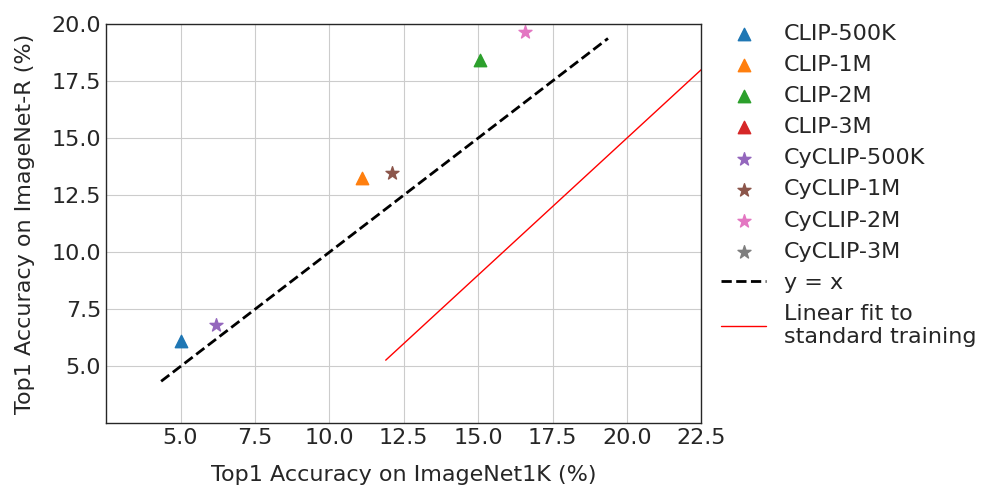
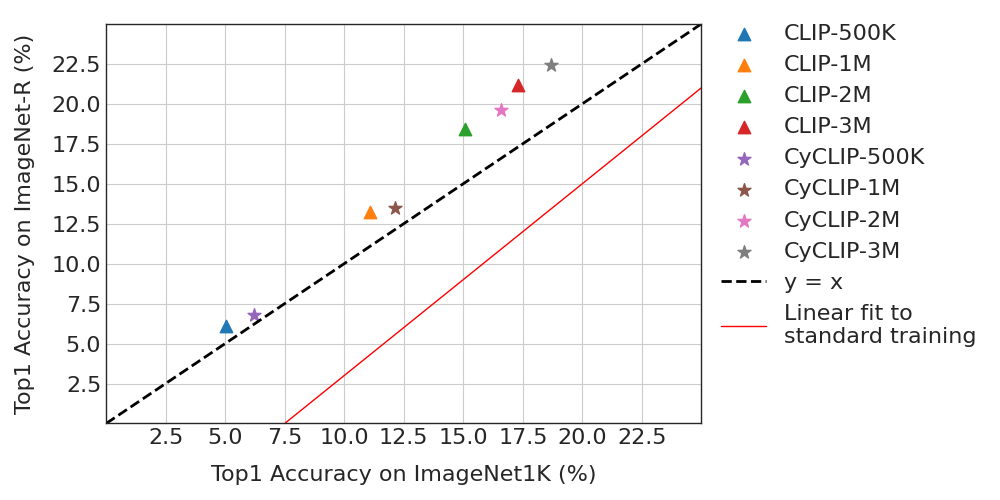
minor changes

diff --git a/utils/fine_coarse_plot.py b/utils/fine_coarse_plot.py
@@ -1,5 +1,4 @@
 import os
-from cv2 import rotate
 import numpy as np
 import seaborn as sns
 import matplotlib.pyplot as plt
@@ -20,87 +19,71 @@ plt.rcParams.update(params)
 plt.style.use("seaborn-whitegrid")
 sns.set_style("white")
 
-k = 1
-
 data_fine_top_1 = {
     "Dataset": ["CIFAR-100", "ImageNet1K", "ImageNetV2", "ImageNetSketch", "ImageNet-A", "ImageNet-R"],
     "CLIP": [43.55,	34.18, 31.10, 25.11, 40.09, 54.49],
-    "CyCLIP": [47.11, 35.46, 33.01, 26.42, 41.25, 55.36],    
-    "C-CyCLIP": [49.19, 35.12, 32.31, 26.37, 42.56, 55.59],
-    "I-CyCLIP": [47.71, 34.92, 32.21, 24.89, 39.60, 53.99]
+    "CyCLIP": [47.11, 35.46, 33.01, 26.42, 41.25, 55.36]
 }
 
 data_coarse_top_1 = {
     "Dataset": ["CIFAR-100", "ImageNet1K", "ImageNetV2", "ImageNetSketch", "ImageNet-A", "ImageNet-R"],
     "CLIP": [34.82, 52.11, 47.24, 37.03, 14.59, 40.51],
-    "CyCLIP": [40.37, 56.79, 52.15, 41.57, 16.48, 44.43],    
-    "C-CyCLIP": [43.06, 56.08, 50.89, 43.02, 16.40, 45.41],
-    "I-CyCLIP": [39.30, 55.78, 51.48, 39.18, 15.63, 41.63]
+    "CyCLIP": [40.37, 56.79, 52.15, 41.57, 16.48, 44.43]
 }
 
 data_fine_top_2 = {
     "Dataset": ["CIFAR-100", "ImageNet1K", "ImageNetV2", "ImageNetSketch", "ImageNet-A", "ImageNet-R"],
     "CLIP": [67.65, 46.53, 43.85, 36.69, 57.93, 71.55],
-    "CyCLIP": [68.67, 48.22, 45.37, 38.34, 57.89, 71.96],    
-    "C-CyCLIP": [71.02, 47.95, 45.02, 37.67, 59.41, 72.06],
-    "I-CyCLIP": [69.30, 47.42, 45.00, 37.24, 56.67, 70.99]
+    "CyCLIP": [68.67, 48.22, 45.37, 38.34, 57.89, 71.96]
 }
 
 data_coarse_top_2 = {
     "Dataset": ["CIFAR-100", "ImageNet1K", "ImageNetV2", "ImageNetSketch", "ImageNet-A", "ImageNet-R"],
     "CLIP": [49.51, 66.06, 61.42, 49.93, 24.71, 52.77],
-    "CyCLIP": [56.26, 69.67, 65.27, 54.59, 26.75, 55.98],    
-    "C-CyCLIP": [58.62, 69.74, 65.23, 56.41, 26.76, 57.21],
-    "I-CyCLIP": [54.20, 68.46, 63.85, 51.58, 25.72, 51.94]
+    "CyCLIP": [56.26, 69.67, 65.27, 54.59, 26.75, 55.98]
 }
 
 data_fine_top_3 = {
     "Dataset": ["CIFAR-100", "ImageNet1K", "ImageNetV2", "ImageNetSketch", "ImageNet-A", "ImageNet-R"],
     "CLIP": [82.41, 53.95, 51.61, 44.66, 67.80, 79.52],
-    "CyCLIP": [83.32, 55.43, 52.85, 46.09, 68.75, 79.81],    
-    "C-CyCLIP": [85.26, 55.14, 52.40, 45.41, 69.99, 79.60],
-    "I-CyCLIP": [84.07, 54.95, 52.03, 45.30, 67.92, 79.41]
+    "CyCLIP": [83.32, 55.43, 52.85, 46.09, 68.75, 79.81]
 }
 
 data_coarse_top_3 = {
     "Dataset": ["CIFAR-100", "ImageNet1K", "ImageNetV2", "ImageNetSketch", "ImageNet-A", "ImageNet-R"],
     "CLIP": [58.39, 73.20, 69.09, 57.61, 32.49, 60.07],
-    "CyCLIP": [65.65, 76.45, 72.40, 62.22, 34.83, 63.12],    
-    "C-CyCLIP": [67.91, 76.76, 72.55, 64.11, 35.25, 64.3],
-    "I-CyCLIP": [63.30, 74.98, 70.44, 58.68, 32.76, 58.48]
+    "CyCLIP": [65.65, 76.45, 72.40, 62.22, 34.83, 63.12]
 }
 
-model = "CyCLIP"
+k = 1
+
+data = (eval(f"data_fine_top_{k}"), eval(f"data_coarse_top_{k}"))
+
+figure, axes = plt.subplots(1, 2, figsize = (12, 5))
 
 ylims = {1: 80, 2: 100, 3: 100}
-for k in [1, 2, 3]:
-    plt.clf()
+X_axis = np.arange(1, 7)
+Y_axis = np.arange(0, ylims[k], 10)
+
+for index in range(2):
+    axes[index].set_ylim(0, ylims[k])
+    axes[index].set_xlabel(f"{'(a)' if (index == 0) else '(b)'}")
+    axes[index].set_ylabel(f"Top{k} Accuracy (%)", labelpad = 12)
+    axes[index].set_xticks(X_axis)
+    axes[index].set_yticks(Y_axis)
+    axes[index].set_xticklabels(data[index]["Dataset"], fontsize = 12, rotation = 30)
+    axes[index].set_yticklabels(Y_axis, fontsize = 12, rotation = 0)
+    axes[index].bar(X_axis, data[index]["CLIP"], label = "CLIP", width = 0.35, color = "brown", alpha = 0.85)
+    axes[index].bar(X_axis + 0.37, data[index]["CyCLIP"], width = 0.35, label = "CyCLIP", alpha = 0.85)
     
-    data = (eval(f"data_fine_top_{k}"), eval(f"data_coarse_top_{k}"))
+    for i in range(len(data[index])):
+        text = ("+" if (data[index]["CyCLIP"][i] > data[index]["CLIP"][i]) else "-") + str(round(abs(data[index]["CyCLIP"][i] - data[index]["CLIP"][i]), 2)) + "%"
+        axes[index].text(i + 0.9, data[index]["CyCLIP"][i] + 1.5, text, fontsize = 12)
 
-    figure, axes = plt.subplots(1, 2, figsize = (12, 5))
+    axes[index].legend(prop = {"size": 12})
+    
+plt.tight_layout()
+plt.subplots_adjust(wspace = 0.225)
 
-    X_axis = np.arange(1, 7)
-    Y_axis = np.arange(0, ylims[k], 10)
-
-    for index in range(2):
-        axes[index].set_ylim(0, ylims[k])
-        axes[index].set_xlabel(f"{'(a)' if (index == 0) else '(b)'}")
-        axes[index].set_ylabel(f"Top{k} Accuracy (%)", labelpad = 12)
-        axes[index].set_xticks(X_axis)
-        axes[index].set_yticks(Y_axis)
-        axes[index].set_xticklabels(data[index]["Dataset"], fontsize = 12, rotation = 30)
-        axes[index].set_yticklabels(Y_axis, fontsize = 12, rotation = 0)
-        axes[index].bar(X_axis, data[index]["CLIP"], label = "CLIP", width = 0.35, color = "brown", alpha = 0.85)
-        axes[index].bar(X_axis + 0.37, data[index][model], width = 0.35, label = model, alpha = 0.85)
-        
-        for i, v in enumerate(data[index]["CLIP"]):
-            axes[index].text(i + 0.9, data[index][model][i] + 1.5, "+" + str(round(data[index][model][i] - data[index]["CLIP"][i], 2)) + "%", fontsize = 12)
-
-        axes[index].legend(prop = {"size": 12})
-        
-    plt.tight_layout()
-    plt.subplots_adjust(wspace = 0.225)
-
-    os.makedirs("analysis/plots", exist_ok = True)
-    plt.savefig(f"analysis/plots/fine_coarse_top{k}.{model}.png")
+os.makedirs("analysis/plots", exist_ok = True)
+plt.savefig(f"analysis/plots/fine_coarse_top{k}.png")

diff --git a/utils/effective_robustness_plot.py b/utils/effective_robustness_plot.py
@@ -49,21 +49,26 @@ for dataset in ["ImageNetV2", "ImageNetSketch", "ImageNet-A", "ImageNet-R"]:
 
     plt.xlabel("Top1 Accuracy on ImageNet1K (%)", labelpad = 12)
     plt.ylabel(f"Top1 Accuracy on {dataset} (%)", labelpad = 12)
-    xpoints = ypoints = plt.xlim()
+    xpoints = ypoints = (0, 25)
     plt.plot(xpoints, ypoints, linestyle = "--", color = "k", lw = 2, scalex = False, scaley = False, label = "y = x")
-
-    ypoints = plt.ylim()
+    
+    ypoints = (0, 21)
     xpoints = [(y + 9) / 1.2 for y in ypoints]
     plt.plot(xpoints, ypoints, linestyle = "-", color = "r", lw = 1, label = "Linear fit to\nstandard training")
 
-    plt.yticks(np.arange(5.0, 22.5, 2.5))
-    plt.xticks(np.arange(5.0, 25.0, 2.5))
-    plt.ylim(2.5, 20.0)
-    plt.xlim(2.5, 22.5)
+    # plt.yticks(np.arange(5.0, 22.5, 2.5))
+    # plt.xticks(np.arange(5.0, 25.0, 2.5))
+    # plt.ylim(2.5, 20.0)
+    # plt.xlim(2.5, 22.5)
     
+    plt.yticks(np.arange(2.5, 25.0, 2.5))
+    plt.xticks(np.arange(2.5, 25.0, 2.5))
+    plt.ylim(0, 25.0)
+    plt.xlim(0, 25.0)
+        
     plt.legend(bbox_to_anchor = (1.0, 1.05))
     plt.grid()
     plt.tight_layout()
-
+    
     os.makedirs("analysis/plots", exist_ok = True)
     plt.savefig(f"analysis/plots/effective_robustness_plot.{dataset}.png")

diff --git a/utils/zeroshot.py b/utils/zeroshot.py
@@ -28,7 +28,7 @@ def run(options):
         
 if(__name__ == "__main__"):
     parser = argparse.ArgumentParser()
-    parser.add_argument("--embeddings", type = str, default = "analysis/embeddings/clip/ImageNet1K.pkl", help = "Input test embeddings file")
+    parser.add_argument("--embeddings", type = str, default = "analysis/embeddings/clip/ImageNet1K.validation.pkl", help = "Input test embeddings file")
     parser.add_argument("--batch_size", type = int, default = 32, help = "Batch size")
     parser.add_argument("--k", nargs = "+", default = [1, 3, 5])
     options = parser.parse_args()
